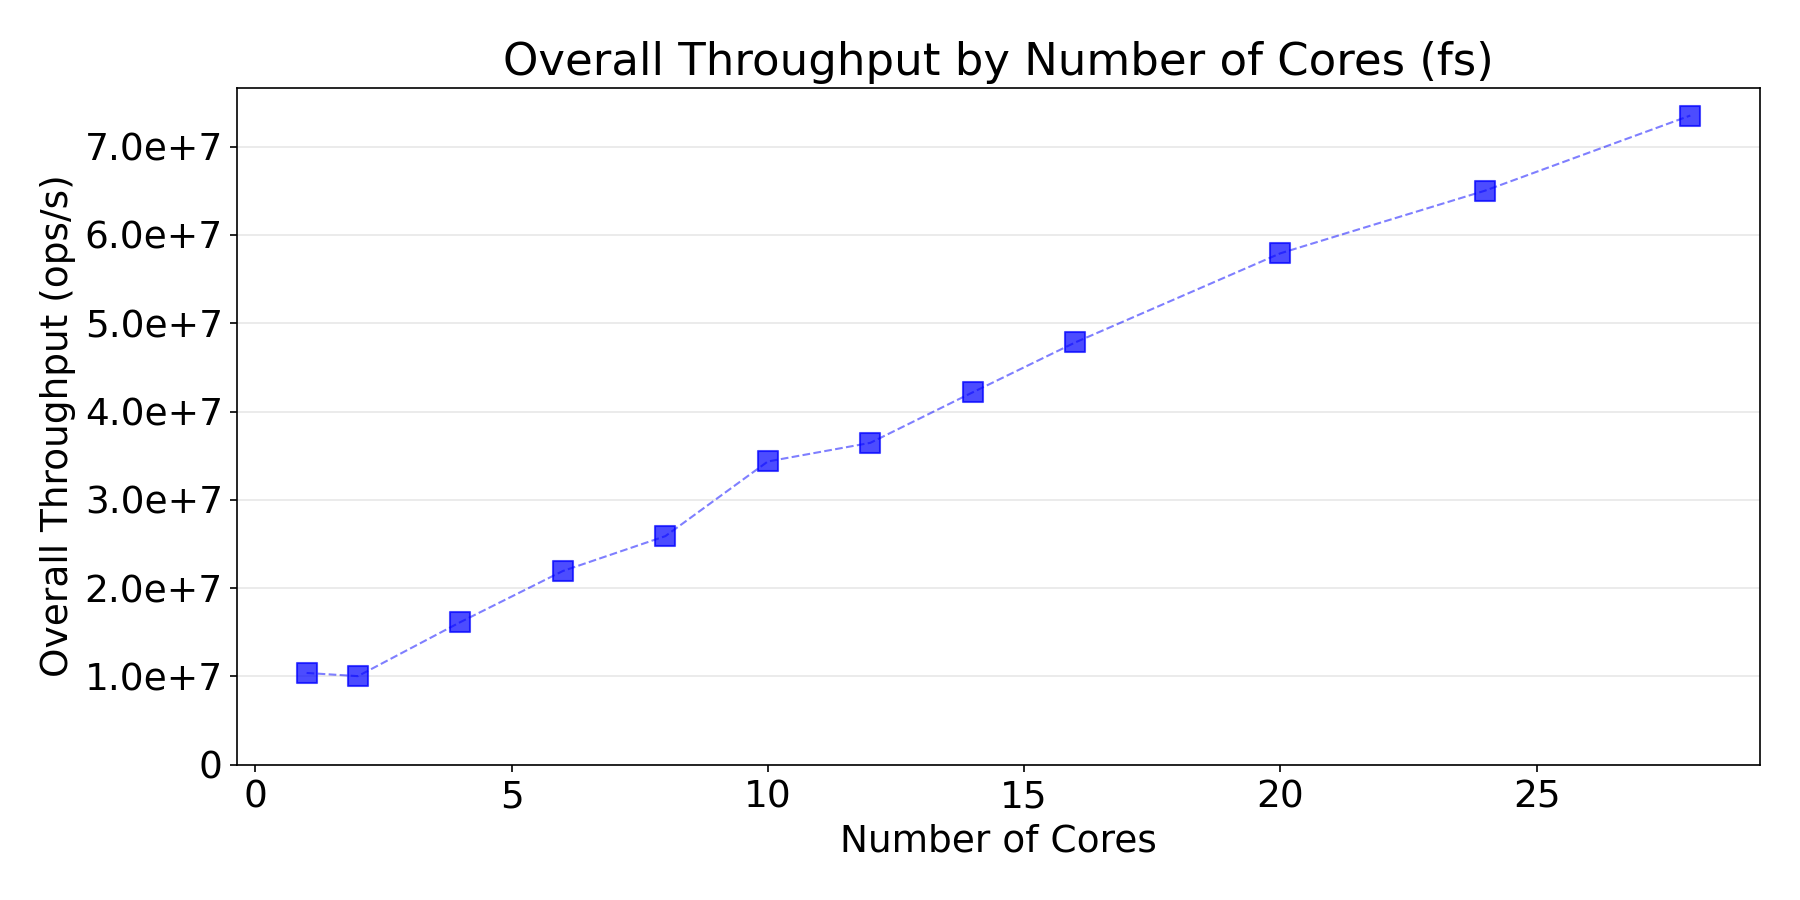
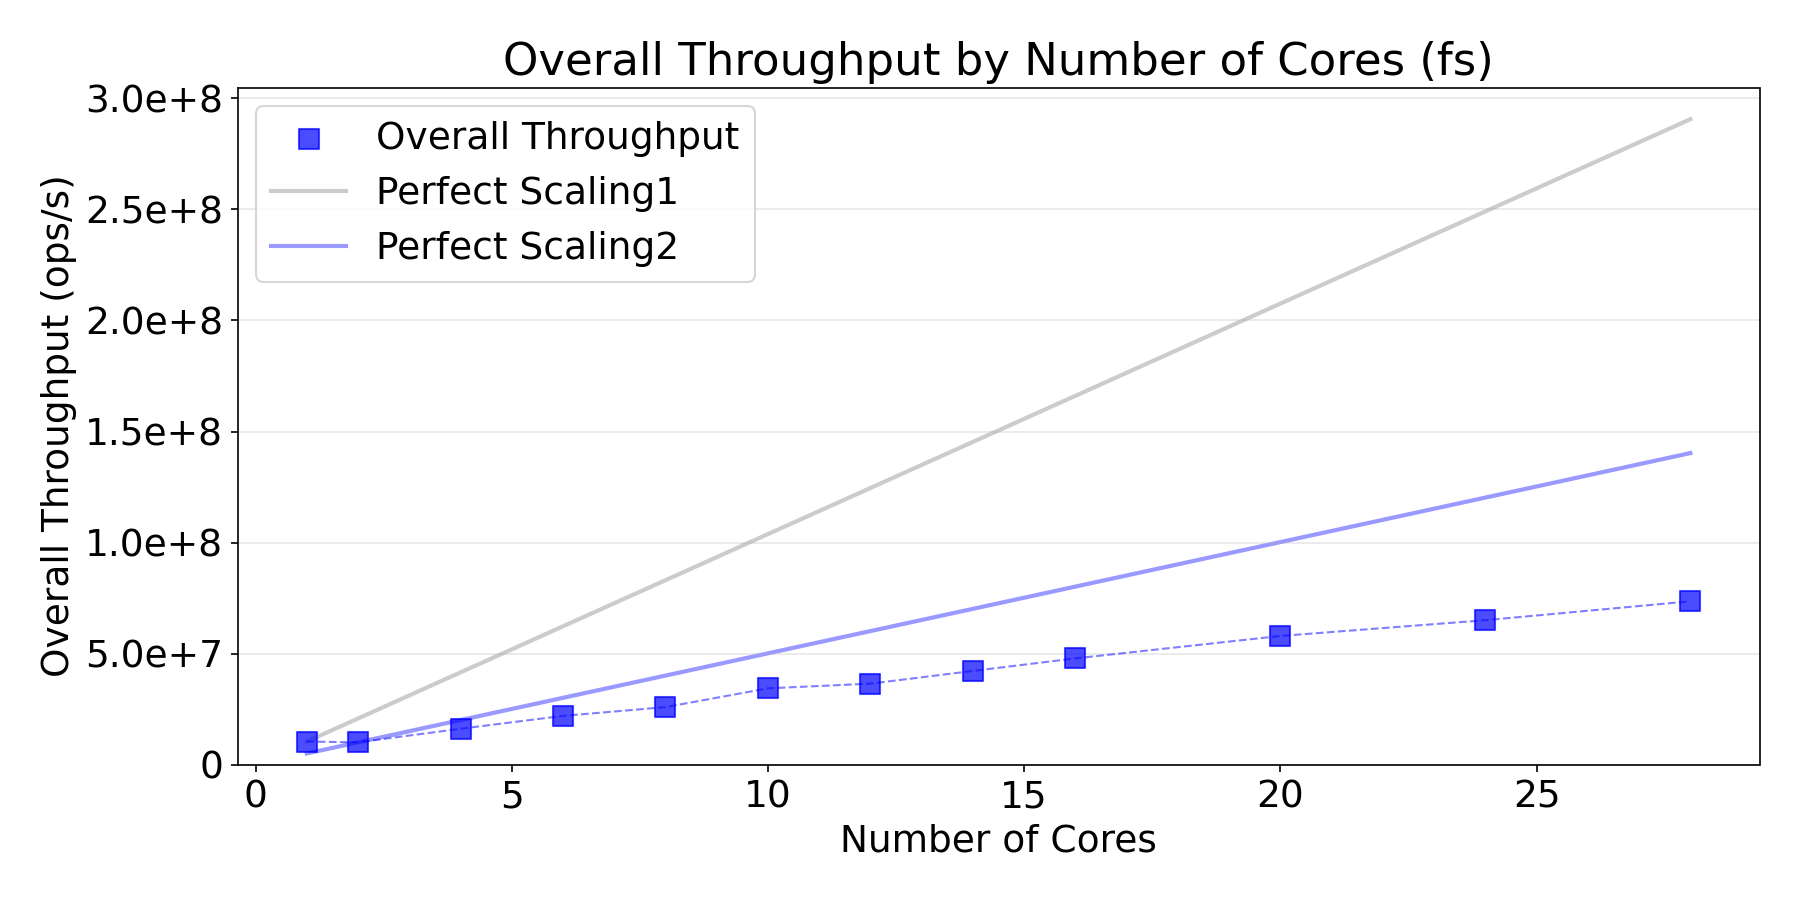
added perfect scaling lines (is 1 the baseline or 2?)

diff --git a/pthread-sim/analyze.py b/pthread-sim/analyze.py
@@ -92,6 +92,18 @@ def main():
                   marker='s', label='Overall Throughput', alpha=0.7, zorder=3)
     ax.plot(core_counts, [np.mean(data[cores]) for cores in core_counts], color='blue',
                linestyle='--', alpha=0.5, linewidth=1, zorder=2)
+
+    baseline_cores1 = core_counts[0] # TODO: do we use core 1 or core 2 here?
+    baseline_cores2 = core_counts[1] # TODO: do we use core 1 or core 2 here?
+    baseline_tp1 = np.mean(data[baseline_cores1])
+    baseline_tp2 = np.mean(data[baseline_cores2])
+    perfect_scaling1 = [baseline_tp1 * (cores / baseline_cores1) for cores in core_counts]
+    perfect_scaling2 = [baseline_tp2 * (cores / baseline_cores2) for cores in core_counts]
+    ax.plot(core_counts, perfect_scaling1, color='gray', linestyle='-',
+            alpha=0.4, linewidth=2, label='Perfect Scaling1', zorder=1)
+    ax.plot(core_counts, perfect_scaling2, color='blue', linestyle='-',
+            alpha=0.4, linewidth=2, label='Perfect Scaling2', zorder=1)
+    ax.legend()
     
     ax.set_xlabel('Number of Cores')
     ax.set_ylabel('Overall Throughput (ops/s)')
